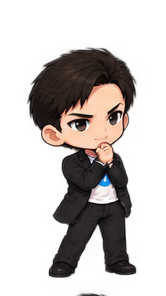
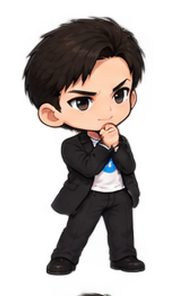
Durov idle: samakan tinggi frame (hilang naik-turun), tempo balik normal

Changed region(s): [[0.1205, 0.0304, 0.8735, 0.9426], [0.5422, 0.973, 0.6627, 1.0], [0.6928, 0.8514, 0.7229, 0.8818]]

diff --git a/src/data/heroes/durov.ts b/src/data/heroes/durov.ts
@@ -17,7 +17,5 @@ export const DUROV: Hero = {
   skills: [],
   // Chibi art reads small next to Elonmusk, so render slightly larger.
   spriteScale: 1.18,
-  // Four bouncy idle frames look rushed at the shared tempo.
-  idleIntervalMs: 340,
   assets: heroAssetIds,
 };
